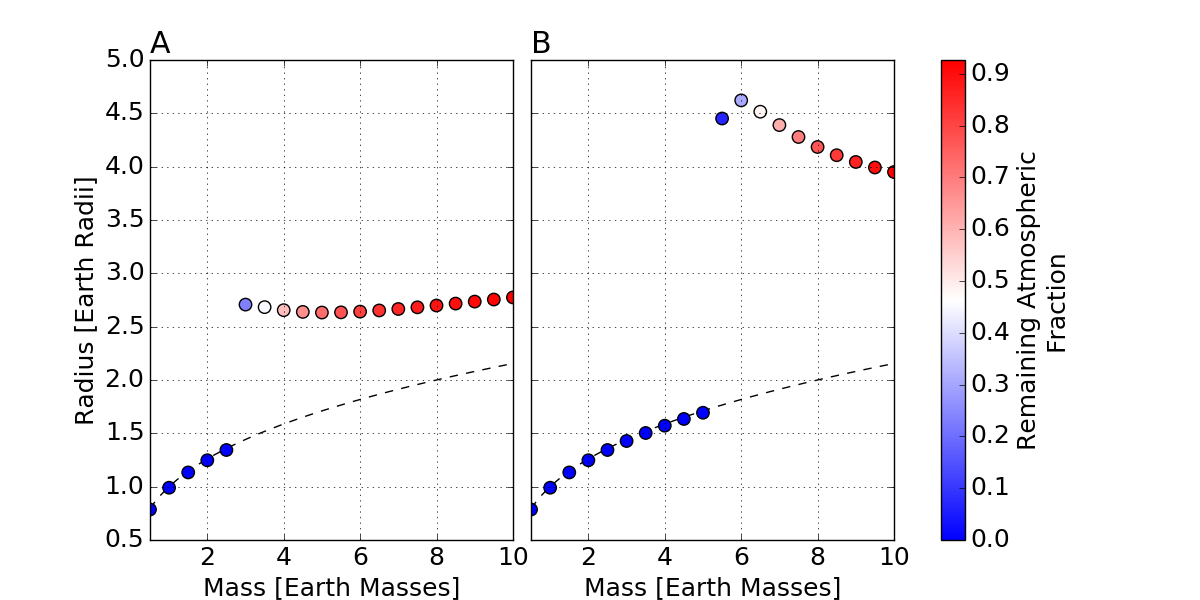
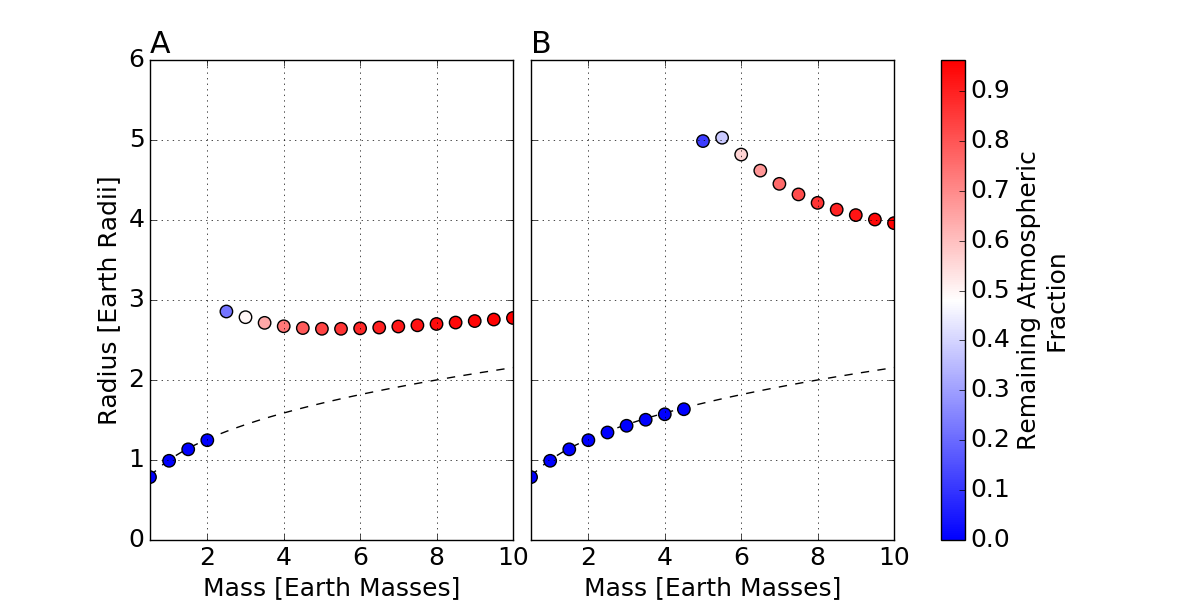
updated figures

diff --git a/SimpleModel.py b/SimpleModel.py
@@ -119,7 +119,7 @@ def calculate_xuv_at_t(L_xuv, t, t_sat=1.0E8):
     NOTE: see equation (1) of Luger et al (2015)
     """
 
-    F_xuv = L_xuv
+    F_xuv = 55.0 #L_xuv ORL hardcoded to 100*modern Sun at 0.1 AU
 
     if t > t_sat: 
         F_xuv = L_xuv*(t_sat/t) #beta is of order -1
@@ -475,11 +475,11 @@ def plot_kepler51b():
 
 def plot_planet_raius():
     matplotlib.rc('font',size=14)
-    T = 620.0
+    T = 880.0
     core_rho = 5510.0
     mass = 2.0*M_Earth
     core_mass = mass*0.97
-    orb_dist = 0.2*AU
+    orb_dist = 0.1*AU
     plot_planet_over_time(mass, orb_dist, T, \
             core_mass, core_rho, R_H2, k51_mass, timestep=1.0E4, duration=1.0E8)
 
@@ -789,8 +789,8 @@ def plot_radius_over_individual_mass(T=1000.0):
 
 def plot_escape_parameter_space_side_by_side():
     
-    m3000, r3000, am3000 = plot_escape_parameter_space(DUR=1.0E8, T=1240, NO_PLOT=True)
-    m2000, r2000, am2000 = plot_escape_parameter_space(DUR=1.0E8, T=620, NO_PLOT=True)
+    m3000, r3000, am3000 = plot_escape_parameter_space(DUR=1.0E8, T=1760, NO_PLOT=True)
+    m2000, r2000, am2000 = plot_escape_parameter_space(DUR=1.0E8, T=880, NO_PLOT=True)
 
     min_mass = np.min(m2000)
     max_mass = np.max(m2000)
@@ -830,7 +830,7 @@ def plot_escape_parameter_space_side_by_side():
     plt.colorbar(sc1, ax=[ax1,ax2]).set_label("Remaining Atmospheric\nFraction")
     plt.show()
 
-    title = "620K_1240K_compared.png"
+    title = "880K_1760K_compared.png"
     print("SAVING FIGURE AS: %s"%(title)) 
     fig.savefig(title, dpi=100)
 
@@ -845,10 +845,10 @@ def plot_rxuv_denominator():
     denom = []
 
     rho = 5510.0 #density of rocky core [kg m-3]
-    T = 620.0 #isothermal temp [K]
+    T = 880.0 #isothermal temp [K]
     dur = 1.0E8 #duration in Years
     tstep = 1.0E5 #timestep in Years
-    dist = 0.2*AU 
+    dist = 0.1*AU 
     times = []
     num_lines = 5 
 
@@ -914,8 +914,8 @@ def plot_rxuv_denominator():
         plt.plot(masses/M_Earth,y_array, label=line_label)
     plt.xlabel("Mass [Earth Masses]")
     plt.ylabel("$R^{2}_{XUV}$ [Earth Radii]")
-    plt.ylim(0,12)
-    plt.xlim(1,10)
+    plt.ylim(0,25)
+    plt.xlim(1.5,10)
     plt.legend(loc="bottom right")
     plt.grid()
     plt.show()
@@ -943,13 +943,13 @@ def plot_total_loss_over_time():
 
         
 #plot_kepler51b()
-#plot_planet_raius() #ORL use this one
+#plot_planet_raius() #ORL use this one for paper
 
 
 
 #plot_escape_parameter_space(DUR=1.0E8, T=1000.0)
-#plot_rxuv_denominator() #ORL use this one for paper
-plot_escape_parameter_space_side_by_side() #ORL use this one for paper
+plot_rxuv_denominator() #ORL use this one for paper
+#plot_escape_parameter_space_side_by_side() #ORL use this one for paper
 #animate_loss(SAVE_TO_FILE=True)
 
 #plot_radius_mass_raltionship()

diff --git a/ProcessExoplanetData.py b/ProcessExoplanetData.py
@@ -128,6 +128,7 @@ def plot_sunlike_planets():
 
             print("%s has mass: %0.2f [Earth Masses], radius: %0.2f [Earth Radii]\n\t\tdensity: %0.2f [g/cc]"%(p.name,m/M_earth,r/R_earth,p.density))
 
+    """
     #create the Earth density curve and water density curve
     line_masses = np.linspace(min_mass,max_mass,200)
     line_radii_earth = np.zeros(len(line_masses))
@@ -138,16 +139,23 @@ def plot_sunlike_planets():
 
     #plot the line of Earth density
     plt.plot(line_masses/M_earth, line_radii_earth/R_earth, "k--", zorder=1)
+    """
 
-    cm = plt.cm.get_cmap("bwr")
-    sc = plt.scatter(mass, rad, c=orb_dist, s=80, alpha=0.5, zorder=2,\
-            cmap=cm)#, norm=matplotlib.colors.LogNorm())
-    plt.colorbar(sc).ax.set_title("Orbital Distance [Au]")
+    #cm = plt.cm.get_cmap("bwr")
+    #sc = plt.scatter(orb_dist, mass, c=rad, s=80, alpha=0.5, zorder=2,\
+    #        cmap=cm)#, norm=matplotlib.colors.LogNorm())
+    #plt.colorbar(sc).ax.set_title("Radius [Earth Radii]")
+
+    sc = plt.scatter(orb_dist, mass, s=80, alpha=0.5)
+
 
     
-    plt.xlabel("Mass [Earth Masses]")
-    plt.ylabel("Radius [Earth Radii]")
-    plt.xlim(min_mass/M_earth, max_mass/M_earth)
+    plt.xlabel("Orbital Distance [AU]")
+    plt.ylabel("Mass [Earth Masses]")
+    #plt.xlim(min_mass/M_earth, max_mass/M_earth)
+    plt.xscale("log")
+    plt.xlim(0.01,1)
+    plt.ylim(0,10)
     plt.grid()
     plt.show()
 
